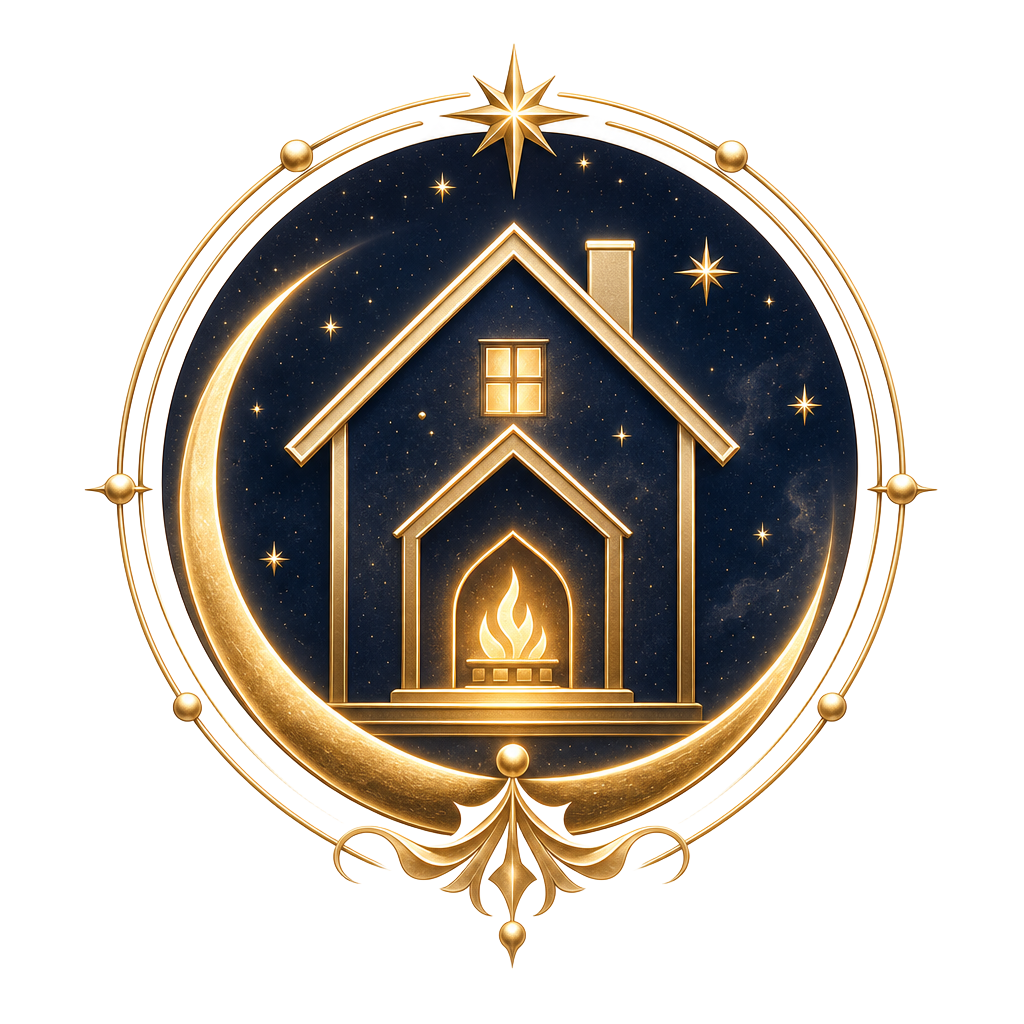
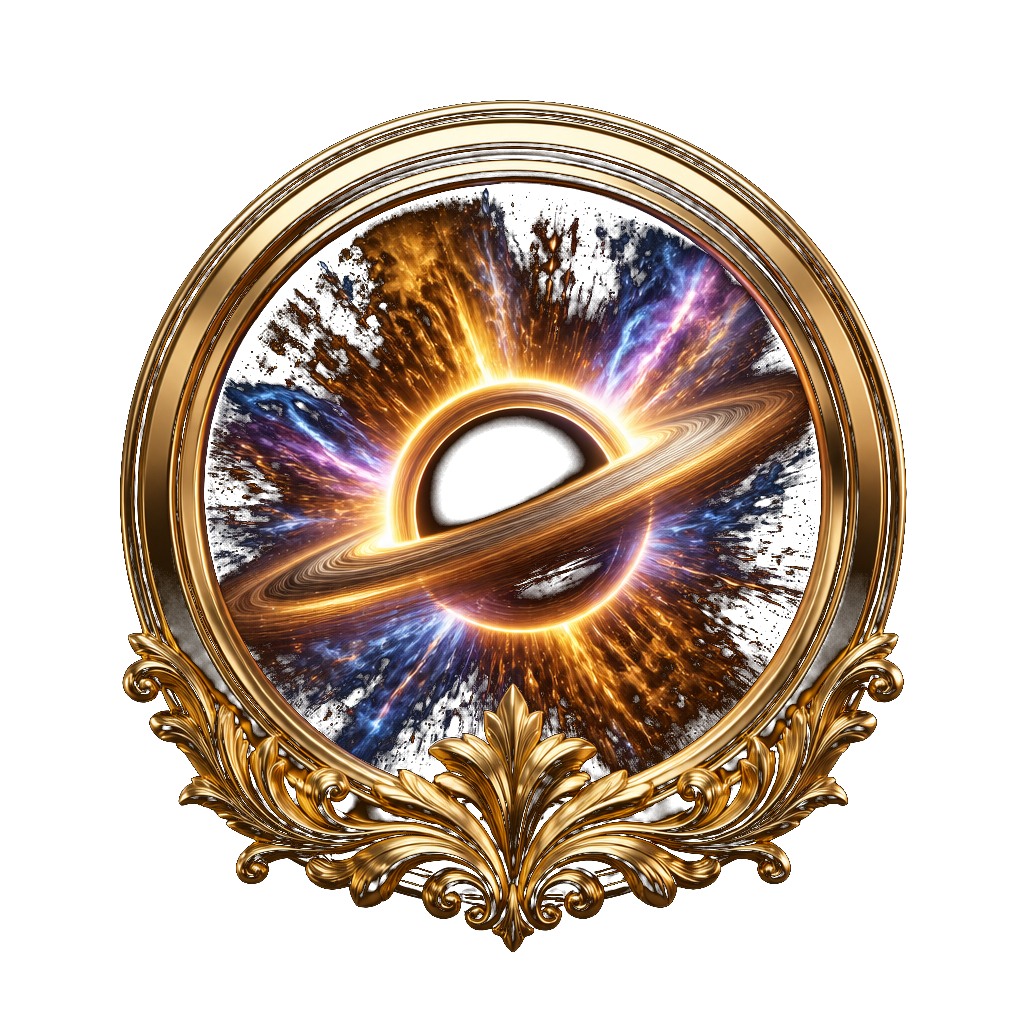
Revise crest to 3D black hole mark and slow family-star orbits.
EOF

diff --git a/src/components/CosmicBackground.tsx b/src/components/CosmicBackground.tsx
@@ -267,12 +267,12 @@ export function CosmicBackground() {
       const incline = 0.32;
       const planeRot = -0.2;
 
-      // Smooth separation cycle: wide → close (collision) → wide
-      const cycle = reduced ? 0.45 : 0.5 + 0.5 * Math.sin(t * 0.55);
+      // Smooth separation cycle: wide → close (collision) → wide (kept leisurely)
+      const cycle = reduced ? 0.45 : 0.5 + 0.5 * Math.sin(t * 0.22);
       // Closer = smaller orbit + faster spin (Kepler feel)
       const sep = 0.22 + 0.78 * cycle; // 1 = wide, ~0.22 = near-collision
       const a = minDim * (0.012 + 0.048 * sep);
-      const spinRate = reduced ? 0 : 0.55 + (1 - sep) * 2.4;
+      const spinRate = reduced ? 0 : 0.22 + (1 - sep) * 1.0;
       const ang = t * spinRate;
 
       const orbitPoint = (theta: number, radius: number) => {
@@ -291,8 +291,8 @@ export function CosmicBackground() {
       const purple = orbitPoint(ang + Math.PI, a);
 
       // Layla — soft pink star caught in Monica's (purple) orbit, like a moon
-      const laylaAng = ang * 2.6 + t * 1.8;
-      const laylaRad = a * (0.22 + 0.06 * Math.sin(t * 1.1));
+      const laylaAng = ang * 2.4 + t * 0.7;
+      const laylaRad = a * (0.22 + 0.06 * Math.sin(t * 0.45));
       const laylaLocal = {
         x: Math.cos(laylaAng) * laylaRad,
         y: Math.sin(laylaAng) * laylaRad * incline,
@@ -339,8 +339,8 @@ export function CosmicBackground() {
         ctx.fill();
 
         // Layla's pink trail around Monica's past position
-        const pastLaylaAng = past * 2.6 + t * 1.8 - i * 0.2;
-        const lr = a * (0.22 + 0.06 * Math.sin(t * 1.1));
+        const pastLaylaAng = past * 2.4 + t * 0.7 - i * 0.2;
+        const lr = a * (0.22 + 0.06 * Math.sin(t * 0.45));
         const lx = Math.cos(pastLaylaAng) * lr;
         const ly = Math.sin(pastLaylaAng) * lr * incline;
         const lpx = tp.x + lx * lca - ly * lsa;

diff --git a/src/components/Hero.tsx b/src/components/Hero.tsx
@@ -52,10 +52,10 @@ export function Hero() {
       >
         <img
           src={crest}
-          alt="The Nichols Estate cosmic hearth crest"
+          alt="The Nichols Estate black hole Big Bang crest"
           width={1024}
           height={1024}
-          className="animate-float-soft mx-auto mb-8 size-32 drop-shadow-[0_0_45px_rgba(212,175,55,0.45)] sm:size-44"
+          className="animate-float-soft mx-auto mb-8 size-32 [filter:drop-shadow(0_16px_28px_rgba(0,0,0,0.7))_drop-shadow(0_0_36px_rgba(212,175,55,0.4))] sm:size-44"
         />
         <h1 className="gold-text text-4xl font-extrabold sm:text-6xl lg:text-7xl">
           {SITE.name}
